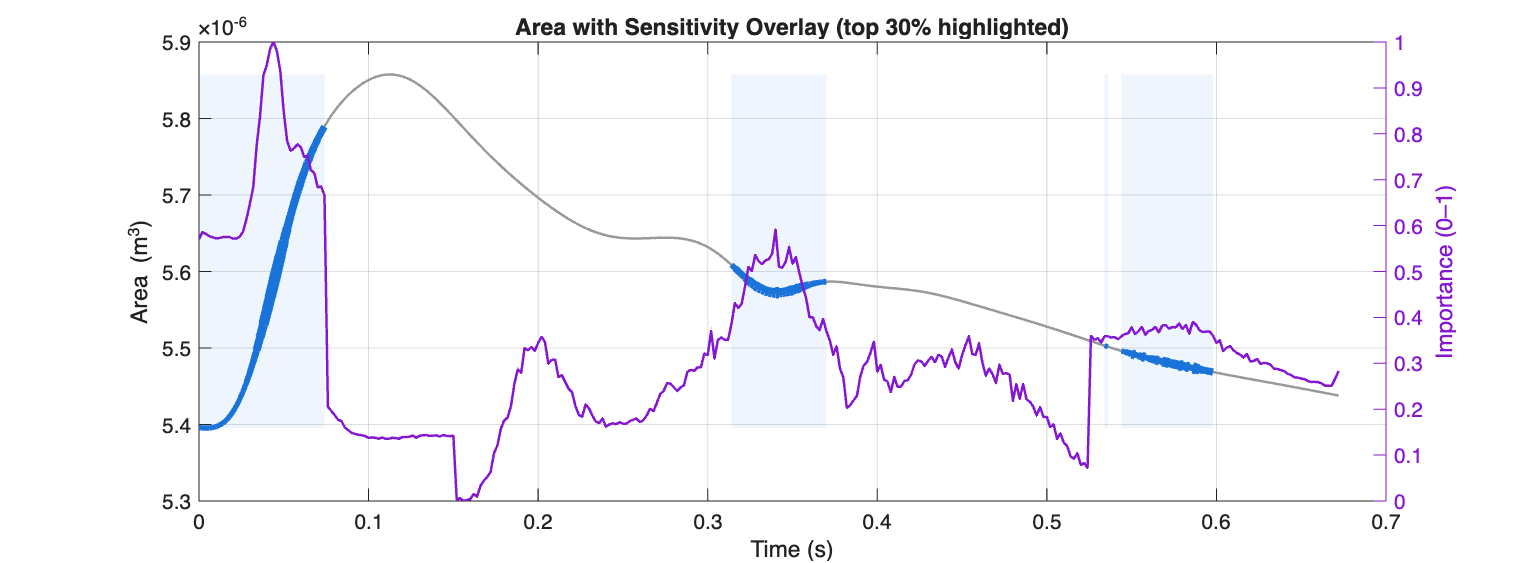
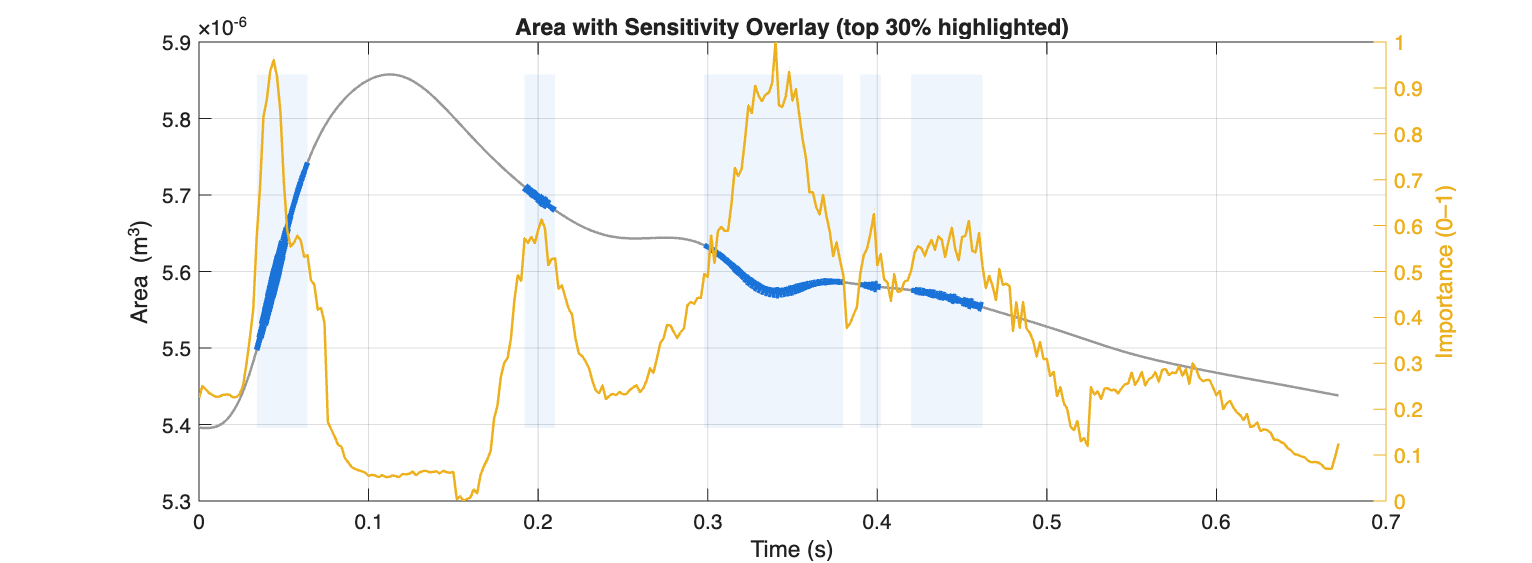
Fix model parameters, add more comment to explain technical side

diff --git a/src/part9_deep_learning.m b/src/part9_deep_learning.m
@@ -7,16 +7,16 @@ rng(8);
 
 % ------------------ DATA SELECTION ------------------
 % Current setting: augmented data (as in your code)
-X_ppg  = waves_augmented.PPG_Radial;   % [N x T]
-X_area = waves_augmented.A_Radial;     % [N x T]
-y      = PWV_cf_augmented(:);
-data_tag = 'augmented';
+% X_ppg  = waves_augmented.PPG_Radial;   % [N x T]
+% X_area = waves_augmented.A_Radial;     % [N x T]
+% y      = PWV_cf_augmented(:);
+% data_tag = 'augmented';
 
 % If you switch to clean data later, uncomment below and set data_tag='clean'
-% X_ppg  = waves.PPG_Radial;
-% X_area = waves.A_Radial;
-% y      = PWV_cf(:);
-% data_tag = 'clean';
+X_ppg  = waves.PPG_Radial;
+X_area = waves.A_Radial;
+y      = PWV_cf(:);
+data_tag = 'clean';
 
 fprintf('\n=== Part 9: Deep Learning (%s data) ===\n', data_tag);
 fprintf('Total subjects: %d\n', numel(y));
@@ -31,7 +31,7 @@ T = size(X_ppg,2);
 
 % ---------- Choose input channels ----------
 % options: 'both' (default), 'ppg', or 'area'
-which_channels = 'area';  % <-- keep your current setting
+which_channels = 'area';  
 
 switch lower(which_channels)
     case 'both', nCh = 2; chan_tag = 'both';
@@ -129,6 +129,7 @@ if exist('net_cnn','var')
     R2_cnn    = 1 - sum(resid_cnn.^2) / sum((ytrue - mean(ytrue)).^2);
     MAE_cnn   = mean(abs(resid_cnn));
     RMSE_cnn  = sqrt(mean(resid_cnn.^2));
+    cnn_time  = S_pre.metrics.CNN.training_time;
 end
 
 % =======================================================
@@ -162,6 +163,7 @@ if exist('net_gru','var')
     R2_gru    = 1 - sum(resid_gru.^2) / sum((ytrue - mean(ytrue)).^2);
     MAE_gru   = mean(abs(resid_gru));
     RMSE_gru  = sqrt(mean(resid_gru.^2));
+    gru_time  = S_pre.metrics.GRU.training_time;
 end
 
 % =======================================================
@@ -289,6 +291,7 @@ b2_skip  = convolution1dLayer(1, F,'Padding','same','Name','b2_skip');
 b2_add   = additionLayer(2,'Name','b2_add');
 b2_out   = reluLayer('Name','b2_out');
 
+% Receptive field = 1 + (5-1)(1+2+4+8) = 61 time steps 
 % Head
 gap   = globalAveragePooling1dLayer('Name','gap');
 fc1   = fullyConnectedLayer(48,'Name','fc1');

diff --git a/src/main.m b/src/main.m
@@ -20,7 +20,7 @@ part3_ptt_analysis(data, plaus_idx, age);
 %% Part 4: Feature-based Regression
 part4_feature_regression(data, plaus_idx, PWV_cf, haemods);
 
-%% Part 5: ML with Waveforms
+%% Part 5: ML with Waveforms and example waveforms of 1 subject
 part5_ml_waveforms(waves, PWV_cf, age, fs);
 
 %% Part 6: Signal Processing
@@ -48,16 +48,23 @@ part11_transfer_eval(waves, PWV_cf, 'both',  fs);
 
 % Output: The results are currently summarized into tables folder
 %% Check parameters
-count_params('../models/part9_models_clean_both.mat');
+count_params('../models/part9_models_clean_both_with_TCN.mat');
 
 %% Make stack plot
 make_stacked_plots('../tables/part9_table_clean_9x4.csv','../tables/part9_table_augmented_9x4.csv')
 
 %% Overlay importance on sample subject
 addpath('../utils/deep_learning');
-sample_idx = 2675;                    % pick any subject row (1..3837)
-plot_importance_overlay( ...
-    'interpretability_gru.mat', ...
-    waves, ...
-    sample_idx, ...
-    'gru');
+sample_idx = 2675; % pick any subject row (1..3837)
+plot_importance_overlay('interpretability_gru.mat', waves, sample_idx, 'gru');
+
+%% Plot model architecture 
+S = load(fullfile('..','models', 'part9_models_augmented_both.mat'));
+analyzeNetwork(S.net_cnn);
+analyzeNetwork(S.net_gru);
+analyzeNetwork(S.net_tcn);
+
+%More GUI way, drag-drop
+% deepNetworkDesigner(S.net_tcn) 
+% deepNetworkDesigner(S.net_tcn) 
+% deepNetworkDesigner(S.net_tcn)  

diff --git a/utils/deep_learning/model_interpretability.m b/utils/deep_learning/model_interpretability.m
@@ -2,10 +2,10 @@ function model_interpretability(net, seqData, y_true, model_type)
 %MODEL_INTERPRETABILITY Analyze which parts of input are most important
 %
 % Inputs:
-% net - trained network (CNN or GRU)
+% net - trained network 
 % seqData - cell array of input sequences [2 x T] (PPG, Area)
 % y_true - true PWV values
-% model_type - 'CNN' or 'GRU' or 'features'
+% model_type - 'CNN' or 'GRU' or 'TCN'
 
 addpath('../utils/others');
 
@@ -24,10 +24,9 @@ y_pred = predict(net, data_subset);
 fprintf('Running Occlusion Analysis...\n');
 occlusion_importance = occlusion_analysis(net, data_subset, y_pred);
 
-% 2. Perturbation Analysis (SHAP-like) - COMMENTED OUT (takes 3+ hours)
+% 2. Perturbation Analysis (SHAP-like) 
 fprintf('Running Perturbation Analysis...\n');
 perturbation_importance = perturbation_analysis(net, data_subset, y_pred);
-%perturbation_importance = zeros(2, size(data_subset{1}, 2)); % Dummy data for visualization
 
 % Visualize results
 visualize_importance(occlusion_importance, perturbation_importance, model_type);
@@ -38,6 +37,7 @@ save(sprintf('interpretability_augmented_%s.mat', lower(model_type)), 'perturbat
 'occlusion_importance'); % perturbation_importance commented out
 
 end
+
 
 function importance = occlusion_analysis(net, seqData, y_baseline)
 %OCCLUSION_ANALYSIS Systematically mask parts of input and measure impact

diff --git a/src/part7_data_augmentation.m b/src/part7_data_augmentation.m
@@ -19,21 +19,22 @@ fprintf('Clean data: %d subjects, %d time points\n', N_aug, T_aug);
 fprintf('\n=== Applying Real-World Augmentations ===\n');
 
 % PPG Augmentations
+% Computes per-subject signal power and injects Gaussian noise for SNR≈25 dB
 X_ppg_aug = X_ppg_clean;
 sig_power = mean(X_ppg_aug.^2, 2);
 noise_power = sig_power ./ (10.^(25/10));
 noise = sqrt(noise_power) .* randn(size(X_ppg_aug));
 X_ppg_aug = X_ppg_aug + noise;
 
-% Baseline drift (5%)
+% Baseline drift (5% amplitude)
 t_drift = linspace(0, 1, T_aug);
 for i = 1:N_aug
-    drift_freq = 0.1 + 0.3*rand();
+    drift_freq = 0.1 + 0.3*rand(); %random frequency between 0.1Hz and 0.4Hz
     drift = 0.05 * sin(2*pi*drift_freq*t_drift + 2*pi*rand());
     X_ppg_aug(i,:) = X_ppg_aug(i,:) + drift;
 end
 
-% Motion artifacts (30% probability)
+% Motion artifacts (30% probability) (add a short spike segment)
 for i = 1:N_aug
     if rand() < 0.3
         spike_start = randi([1, T_aug-20]);

diff --git a/utils/deep_learning/plot_importance_overlay.m b/utils/deep_learning/plot_importance_overlay.m
@@ -78,7 +78,7 @@ end
 % ---- Normalize and combine importance ----
 occl_n = normalize_safe(occl_up, 2, 'range');  % [0,1] across time per channel
 pert_n = normalize_safe(pert,   2, 'range');   % [0,1]
-comb   = 0.5*occl_n + 0.5*pert_n;              % simple average; adjust weights if desired
+comb   = 0.2*occl_n + 0.8*pert_n;              % simple average; adjust weights if desired
 
 % ---- Plot helper ----
 plot_one_channel(t, ppg,  comb(1,:), 'PPG',  'a.u.', sprintf('ppg_importance_%s_%d',  model_tag, sample_idx));

diff --git a/src/part5_ml_waveforms.m b/src/part5_ml_waveforms.m
@@ -61,7 +61,7 @@ save_figure('ppg_waveform_regression', 5);
 
 % Example visualization
 site = 'Radial';
-subject_id = 6;
+subject_id = 2695;
 figure('Position',[200 200 900 500]);
 wave_types = {'P', 'U', 'A', 'PPG'};
 for i = 1:length(wave_types)

diff --git a/src/part6_signal_processing.m b/src/part6_signal_processing.m
@@ -4,7 +4,7 @@ function part6_signal_processing(waves, fs)
 addpath('../utils/others');
 addpath('../utils/signal_processing');
 
-subject_idx = 1;
+subject_idx = 2695;
 signal = waves.PPG_Radial(subject_idx, :);
 
 S = struct();
